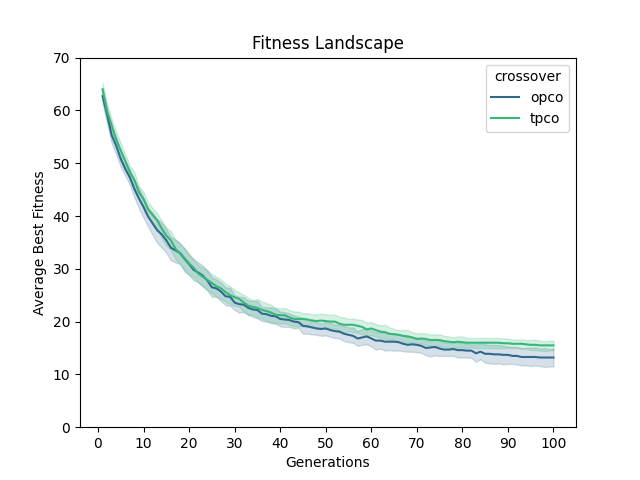
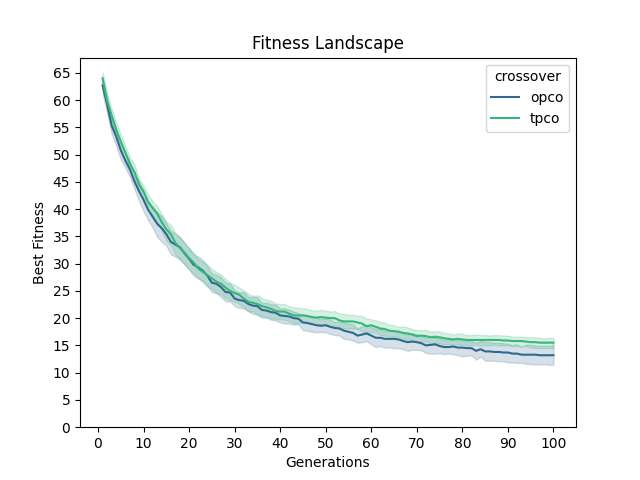
update results

diff --git a/results/stats_analysis.py b/results/stats_analysis.py
@@ -39,7 +39,7 @@ if __name__ == '__main__':
     plt.title('Fitness Landscape')
     plt.xlabel('Generations')
     plt.xticks(range(0, 101, 10))
-    plt.ylabel('Average Best Fitness')
+    plt.ylabel('Best Fitness')
     plt.yticks(range(0, 101, 10))
     plt.show()
 
@@ -62,8 +62,134 @@ if __name__ == '__main__':
     plt.title('Fitness Landscape')
     plt.xlabel('Generations')
     plt.xticks(range(0, 101, 10))
-    plt.ylabel('Average Best Fitness')
-    plt.yticks(range(0, 71, 10))
+    plt.ylabel('Best Fitness')
+    plt.yticks(range(0, 66, 5))
     plt.show()
 
     # MUTATION COMPARISON PLOT
+    mutation_2pm = group_merge('mutation_test_tournament_2pm')
+    mutation_2pm.reset_index(inplace=True)
+    mutation_2pm.rename(columns={'index': 'generation', 0: 'fitness'}, inplace=True)
+    mutation_2pm['generation'] = mutation_2pm['generation'].apply(lambda x: x + 1)
+    mutation_2pm['mutation'] = '2pm'
+
+    mutation_3pm = group_merge('mutation_test_tournament_3pm')
+    mutation_3pm.reset_index(inplace=True)
+    mutation_3pm.rename(columns={'index': 'generation', 0: 'fitness'}, inplace=True)
+    mutation_3pm['generation'] = mutation_3pm['generation'].apply(lambda x: x + 1)
+    mutation_3pm['mutation'] = '3pm'
+
+    mutation_swap = group_merge('mutation_test_tournament_swap')
+    mutation_swap.reset_index(inplace=True)
+    mutation_swap.rename(columns={'index': 'generation', 0: 'fitness'}, inplace=True)
+    mutation_swap['generation'] = mutation_swap['generation'].apply(lambda x: x + 1)
+    mutation_swap['mutation'] = 'swap'
+
+    mutation_2swap = group_merge('mutation_test_tournament_2swap')
+    mutation_2swap.reset_index(inplace=True)
+    mutation_2swap.rename(columns={'index': 'generation', 0: 'fitness'}, inplace=True)
+    mutation_2swap['generation'] = mutation_2swap['generation'].apply(lambda x: x + 1)
+    mutation_2swap['mutation'] = '2swap'
+
+    mutation_inner_swap = group_merge('mutation_test_tournament_inner_swap')
+    mutation_inner_swap.reset_index(inplace=True)
+    mutation_inner_swap.rename(columns={'index': 'generation', 0: 'fitness'}, inplace=True)
+    mutation_inner_swap['generation'] = mutation_inner_swap['generation'].apply(lambda x: x + 1)
+    mutation_inner_swap['mutation'] = 'inner_swap'
+
+    df_mutation = pd.concat([mutation_2pm, mutation_3pm, mutation_swap, mutation_2swap, mutation_inner_swap])
+    df_mutation.sort_values(by='generation', inplace=True)
+    df_mutation.reset_index(drop=True, inplace=True)
+
+    sns.lineplot(x='generation', y='fitness', hue='mutation', palette='viridis', data=df_mutation)
+    plt.title('Fitness Landscape')
+    plt.xlabel('Generations')
+    plt.xticks(range(0, 101, 10))
+    plt.ylabel('Best Fitness')
+    plt.yticks(range(0, 66, 5))
+    plt.show()
+
+    # EASY PUZZLE COMPARISON PLOT
+    easy_opco = group_merge('easy_test_opco')
+    easy_opco.reset_index(inplace=True)
+    easy_opco.rename(columns={'index': 'generation', 0: 'fitness'}, inplace=True)
+    easy_opco['generation'] = easy_opco['generation'].apply(lambda x: x + 1)
+    easy_opco['mutation'] = 'opco'
+
+    easy_tpco = group_merge('easy_test_tpco')
+    easy_tpco.reset_index(inplace=True)
+    easy_tpco.rename(columns={'index': 'generation', 0: 'fitness'}, inplace=True)
+    easy_tpco['generation'] = easy_tpco['generation'].apply(lambda x: x + 1)
+    easy_tpco['mutation'] = 'tpco'
+
+    df_easy = pd.concat([easy_opco, easy_tpco])
+    df_easy.sort_values(by='generation', inplace=True)
+    df_easy.reset_index(drop=True, inplace=True)
+    df_easy['fitness'] = df_easy['fitness'].apply(lambda x: str(x).split(';;;;')[0]).astype('int')
+
+    sns.lineplot(x='generation', y='fitness', hue='mutation', palette='viridis', data=df_easy)
+    plt.title('Fitness Landscape')
+    plt.xlabel('Generations')
+    plt.xticks(range(0, 101, 10))
+    plt.ylabel('Best Fitness')
+    plt.yticks(range(0, 51, 5))
+    plt.axhline(y=0.0, color='black', linestyle='dotted')
+    plt.show()
+
+    # VERY HARD PUZZLE PLOTS
+    # fitness crossover
+    very_hard_opco = group_merge('very_hard_test_opco')
+    very_hard_opco.reset_index(inplace=True)
+    very_hard_opco.rename(columns={'index': 'generation', 0: 'fitness'}, inplace=True)
+    very_hard_opco['generation'] = very_hard_opco['generation'].apply(lambda x: x + 1)
+    very_hard_opco['crossover'] = 'opco'
+    df_very_hard_opco = very_hard_opco.copy()
+    df_very_hard_opco.sort_values(by='generation', inplace=True)
+    df_very_hard_opco.reset_index(drop=True, inplace=True)
+
+    sns.lineplot(x='generation', y='fitness', palette='viridis', data=df_very_hard_opco)
+    plt.title('Fitness Landscape')
+    plt.xlabel('Generations')
+    plt.xticks(range(0, 201, 20))
+    plt.ylabel('Best Fitness')
+    plt.yticks(range(0, 61, 5))
+    plt.axhline(y=15.0, color='black', linestyle='dotted')
+    plt.show()
+
+    # average fitness function
+    very_hard_avg = group_merge('very_hard_test_opco_avg')
+    very_hard_avg.reset_index(inplace=True)
+    very_hard_avg.rename(columns={'index': 'generation', 0: 'fitness'}, inplace=True)
+    very_hard_avg['generation'] = very_hard_avg['generation'].apply(lambda x: x + 1)
+    very_hard_avg['function'] = 'avg'
+    df_very_hard_avg = very_hard_avg.copy()
+    df_very_hard_avg.sort_values(by='generation', inplace=True)
+    df_very_hard_avg.reset_index(drop=True, inplace=True)
+
+    sns.lineplot(x='generation', y='fitness', palette='viridis', data=df_very_hard_avg)
+    plt.title('Fitness Landscape')
+    plt.xlabel('Generations')
+    plt.xticks(range(0, 201, 20))
+    plt.ylabel('Average Best Fitness')
+    plt.yticks(range(0, 21, 2))
+    plt.axhline(y=4.0, color='black', linestyle='dotted')
+    plt.show()
+
+    # final attempt
+    very_hard = group_merge('very_hard_test_opco_avg_500')
+    very_hard.reset_index(inplace=True)
+    very_hard.rename(columns={'index': 'generation', 0: 'fitness'}, inplace=True)
+    very_hard['generation'] = very_hard['generation'].apply(lambda x: x + 1)
+    very_hard['function'] = 'avg'
+    df_very_hard = very_hard.copy()
+    df_very_hard.sort_values(by='generation', inplace=True)
+    df_very_hard.reset_index(drop=True, inplace=True)
+
+    sns.lineplot(x='generation', y='fitness', palette='viridis', data=df_very_hard)
+    plt.title('Fitness Landscape')
+    plt.xlabel('Generations')
+    plt.xticks(range(0, 501, 50))
+    plt.ylabel('Average Best Fitness')
+    plt.yticks(range(0, 21, 2))
+    plt.axhline(y=1.0, color='black', linestyle='dotted')
+    plt.show()
